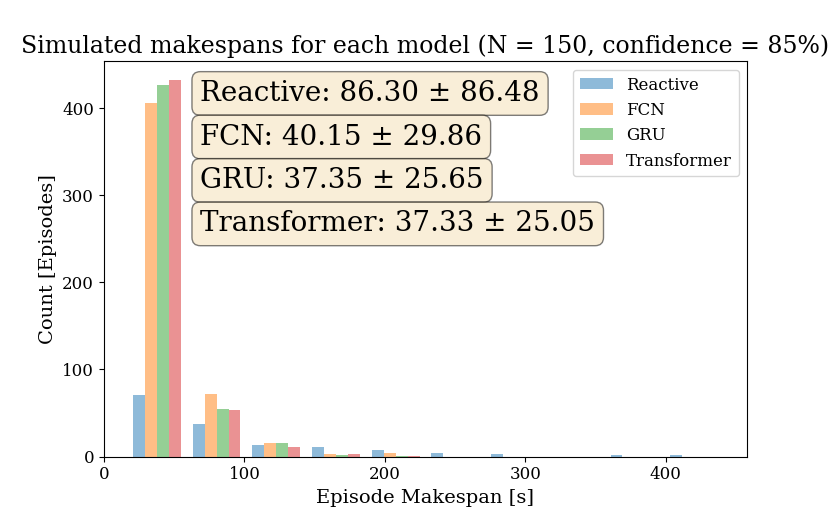
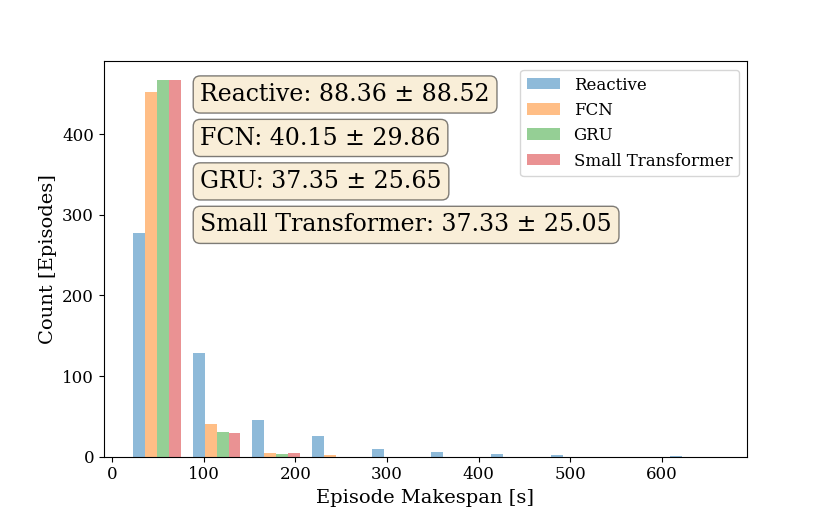
changes to the roc auc pipeline

diff --git a/src/utilities/metrics_plots.py b/src/utilities/metrics_plots.py
@@ -226,6 +226,9 @@ def get_decision( output, trueLabel, threshold = 0.90 ):
         if np.amax( row ) >= threshold:
             break
 
+    if i >= len(output) - 1:
+        return 'NC'
+
     if np.amax(row) == row[0]:
         return 1 - row[0]
 
@@ -256,22 +259,40 @@ def plot_roc_window_data(models: dict, X_data: list, Y_data: list, confidence: f
     cmap = cm.get_cmap('Spectral', len(models.keys()))
     colors = [rgb2hex(cmap(i)[:3]) for i in range(cmap.N)]
     i = 0
+
+    results = {}
+
     for model_name, model in models.items():
         print(f'--> For model {model_name}...')
         res = []
+        labels = []
         for epNo in range(len(X_data)):
             with tf.device('/GPU:0'):
                 pred = model.predict(X_data[epNo])
                 value = get_decision(pred, Y_data[epNo][0], threshold=confidence)
-                res.append(value)
+                if value != 'NC':
+                    res.append(value)
+                    labels.append(Y_data[epNo][0][1])
 
-        labels = [l[0][1] for l in Y_data]
-        fpr, tpr, _ = metrics.roc_curve(labels, res)
-        auc = metrics.roc_auc_score(labels, res)
+        # labels = [l[0][1] for l in Y_data]
+        if len(res) != 0:
+            fpr, tpr, _ = metrics.roc_curve(labels, res)
+            auc = metrics.roc_auc_score(labels, res)
 
-        plt.plot(fpr, tpr, label=f'{model_name} (AUC = {auc:.4f})', color=colors[i])
+            results[model_name] = {'fpr': fpr.tolist(), 'tpr': tpr.tolist(), 'auc': auc}
+
+            label_name = model_name
+            if model_name == 'Transformer':
+                label_name = 'Small Transformer'
+            elif model_name == 'Transformer_big':
+                label_name = 'Big Transformer'
+
+            plt.plot(fpr, tpr, label=f'{label_name} (AUC = {auc:.4f})', color=colors[i])
 
         i += 1
+
+    with open(f'../saved_data/ROC/results_confidence_{int(confidence * 100)}.json', 'w') as f:
+        json.dump(results, f)
 
     plt.axline((1, 1), slope=1, linestyle='dashed', color='black')
     plt.tight_layout()
@@ -307,8 +328,12 @@ def plot_roc_window_data_from_preds(models: dict, preds: dict, Y_data: list, con
         labels = [l[0][1] for l in Y_data]
         fpr, tpr, _ = metrics.roc_curve(labels, pred)
         auc = metrics.roc_auc_score(labels, pred)
-
-        plt.plot(fpr, tpr, label=f'{model_name} (AUC = {auc:.4f})', color=colors[i])
+        label_name = model_name
+        if model_name == 'Transformer':
+            label_name = 'Small Transformer'
+        elif model_name == 'Transformer_big':
+            label_name = 'Big Transformer'
+        plt.plot(fpr, tpr, label=f'{label_name} (AUC = {auc:.4f})', color=colors[i])
 
         i += 1
 
@@ -320,12 +345,7 @@ def plot_roc_window_data_from_preds(models: dict, preds: dict, Y_data: list, con
     plt.close('all')
 
 
-# TODO
-def plot_roc_raw_data():
-    pass
-
-
-def plot_equation_simulation_makespan_barplots(models: dict, confidence: float, save: bool = True):
+def plot_equation_simulation_makespan_barplots(models: dict, confidence: float, reactive_eq: float, reactive_sim: list, plot_reactive: bool = True, save: bool = True):
     img_path = f'../saved_data/imgs/equation_simulation_makespans_barplot_confidence_{int(confidence * 100)}.png'
     eq_file_dir = f'../saved_data/test_data_makespan_confidence_{int(confidence * 100)}'
     sim_file_dir = f'../saved_data/test_data_simulation_confidence_{int(confidence * 100)}'
@@ -350,33 +370,62 @@ def plot_equation_simulation_makespan_barplots(models: dict, confidence: float, 
         "axes.labelsize": 14,
         "font.size": 14,
         # Make the legend/label fonts a little smaller
-        "legend.fontsize": 12,
-        "xtick.labelsize": 12,
-        "ytick.labelsize": 12
+        "legend.fontsize": 14,
+        "xtick.labelsize": 14,
+        "ytick.labelsize": 14
     }
     plt.rcParams.update(tex_fonts)
-    width = 0.25
-    r = np.arange(len(list(models.keys())))
 
-    plt.bar(
+    fig, axes = plt.subplots(1, 1, figsize=set_size(fig_width, subplots=(1, 1)))
+
+    width = 0.25
+    if plot_reactive:
+        r = np.arange(len(list(models.keys())) + 1)
+    else:
+        r = np.arange(len(list(models.keys())) )
+
+    eq_heights = []
+    if plot_reactive and reactive_eq:
+        eq_heights.append(reactive_eq)
+    for v in makespans.values():
+        eq_heights.append(v['eq'])
+
+    sim_heights = []
+    sim_errors = []
+    if plot_reactive and reactive_sim != []:
+        sim_heights.append(np.mean(reactive_sim))
+        sim_errors.append(np.std(reactive_sim))
+    for v in makespans.values():
+        sim_heights.append(np.mean(v['sim']))
+        sim_errors.append(np.std(v['sim']))
+
+    axes.bar(
         x=r,
-        height=[v['eq'] for v in makespans.values()],
+        height=eq_heights,
         width=width,
         label='Equation makespans [s]',
         alpha=0.5
     )
 
-    plt.bar(
+    axes.bar(
         x=r + width,
-        height=[np.mean(v['sim']) for v in makespans.values()],
-        yerr=[np.std(v['sim']) for v in makespans.values()],
+        height=sim_heights,
+        yerr=sim_errors,
         width=width,
         label='Simulation makespans [s]',
         alpha=0.5,
         capsize=10
     )
 
-    plt.xticks(r + width/2, [model_name for model_name in makespans.keys()])
+    labels = []
+    if plot_reactive and reactive_eq and reactive_sim != []:
+        labels.append('Reactive')
+    for model_name in makespans.keys():
+        if model_name == 'Transformer':
+            labels.append('Small Transformer')
+        else:
+            labels.append(model_name)
+    plt.xticks(r + width/2, labels)
     plt.tight_layout()
     plt.legend()
     plt.savefig(img_path)

diff --git a/src/utilities/makespan_utils.py b/src/utilities/makespan_utils.py
@@ -685,27 +685,32 @@ def plot_simulation_makespans(models: dict, confidence:float, reactive_mks: list
     if plot_reactive and reactive_mks != []:
         means_textstr_dict = {**{'Reactive': ''.join(f'Reactive: {np.mean(reactive_mks):.2f} \u00B1 {np.std(reactive_mks):.2f}')}, **means_textstr_dict}
     for model_name in models.keys():
-        means_textstr_dict[model_name] = ''.join(f'{model_name}: {np.mean(makespans[model_name]):.2f} \u00B1 {np.std(makespans[model_name]):.2f}')
+        if model_name == 'Transformer':
+            name = 'Small Transformer'
+        else:
+            name = model_name
+        means_textstr_dict[model_name] = ''.join(f'{name}: {np.mean(makespans[model_name]):.2f} \u00B1 {np.std(makespans[model_name]):.2f}')
 
     props = dict(boxstyle='round', facecolor='wheat', alpha=0.5)
 
     fig, axes = plt.subplots(1, 1, figsize=set_size(fig_width))
     # plt.tight_layout()
-    axes.title.set_text(f'Simulated makespans for each model (N = {len(makespans[list(makespans.keys())[0]])}, confidence = {int(confidence * 100)}%)')
+    # axes.title.set_text(f'Simulated makespans for each model\n(N = {len(makespans[list(makespans.keys())[0]])}, confidence = {int(confidence * 100)}%)')
     runtimes = []
     if plot_reactive and reactive_mks != []:
         runtimes.append(reactive_mks)
     for model_name in models.keys():
         runtimes.append(makespans[model_name])
 
-    # if 'VanillaTransformer' in models:
-    #     models = [m for m in models if m != 'VanillaTransformer']
-    # models.append('Transformer')
+
+    labels = []
     if plot_reactive and reactive_mks != []:
-        labels = list(models.keys())
-        labels.insert(0, 'Reactive')
-    else:
-        labels = list(models.keys())
+        labels.append('Reactive') 
+    for model_name in list(models.keys()):
+        if model_name == 'Transformer':
+            labels.append('Small Transformer')
+        else:
+            labels.append(model_name)
 
     axes.hist(runtimes, alpha=0.5, label=labels, bins=10)
     axes.legend()
@@ -722,7 +727,7 @@ def plot_simulation_makespans(models: dict, confidence:float, reactive_mks: list
 
     for model_name, textstr in means_textstr_dict.items():
         if textstr is not None:
-            axes.text(x, y, textstr, transform=axes.transAxes, bbox=props, fontsize=20)
+            axes.text(x, y, textstr, transform=axes.transAxes, bbox=props, fontsize=17)
             y -= 0.11
 
     if save_plots:

diff --git a/src/runners/main_runner.py b/src/runners/main_runner.py
@@ -260,6 +260,7 @@ if __name__ == '__main__':
     MTS, MTF, p_success, p_failure = get_mts_mtf(data=test_data)
     # MTS, MTF, p_success, p_failure = get_mts_mtf(data=data)
     r_mks = reactive_makespan(MTF=MTF, MTS=MTS, pf=p_failure, ps=p_success)
+    print(f'Reactive policy equation makespan = {r_mks}')
     data_table[0][1] = None
     data_table[1][1] = r_mks
     data_table[2][1] = MTS
@@ -360,18 +361,26 @@ if __name__ == '__main__':
 
     # Equation and simulation makespan bar plots:
     for confidence in confidence_list:
-        plot_roc_window_data(models=sim_models, X_data=X_window_test, Y_data=Y_window_test, confidence=confidence)
+        plot_roc_window_data(
+            models=sim_models,
+            X_data=X_window_test,
+            Y_data=Y_window_test,
+            confidence=confidence
+        )
 
         # plot_equation_simulation_makespan_barplots(
         #     models=plot_models,
         #     confidence=confidence,
+        #     reactive_eq=r_mks,
+        #     reactive_sim=react_mks,
+        #     plot_reactive=False,
         #     save=True
         # )
 
         # plot_simulation_makespans(
         #     models=plot_models,
         #     confidence=confidence,
-        #     reactive_mks=react_mks[:150],
+        #     reactive_mks=react_mks[:500],
         #     plot_reactive=True,
         #     save_plots=True
         # )
